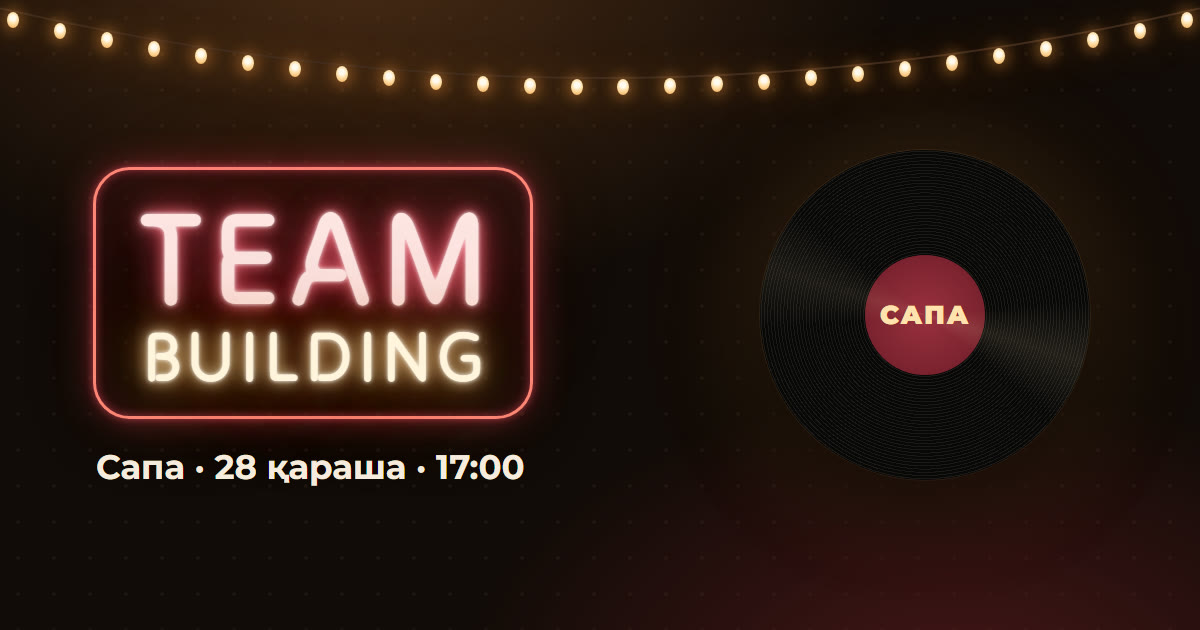
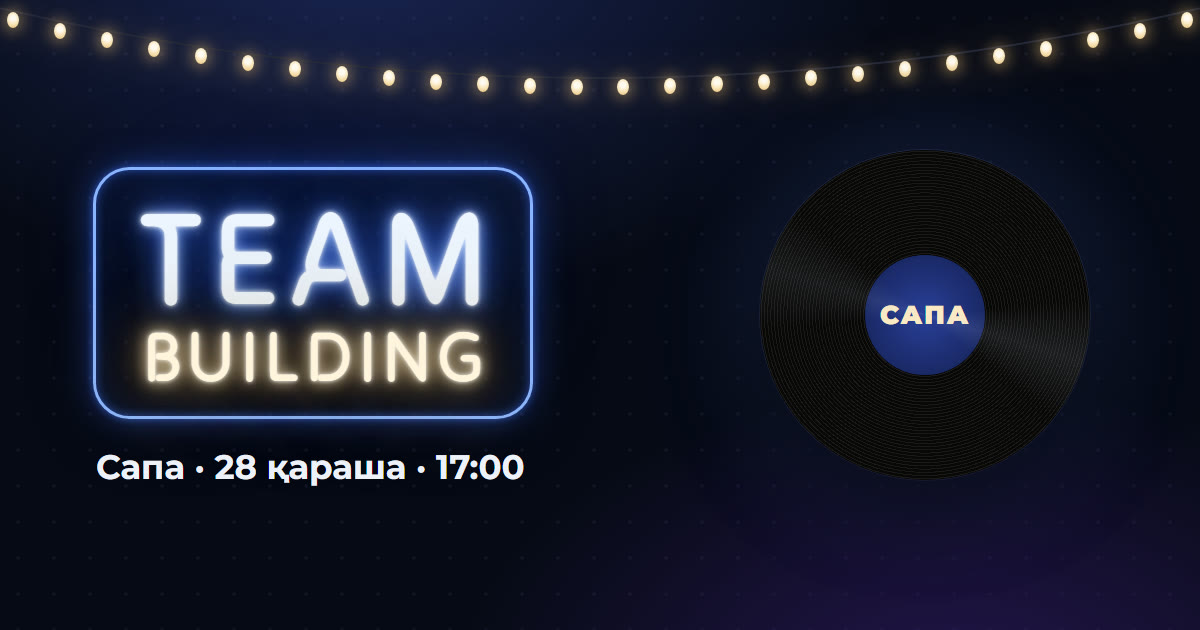
Make Midnight the main palette
- index.html opens in midnight without ?palette (also set on <html> as a no-JS fallback)
- Telegram preview and icons redrawn in navy and brass
- Comparison page marks Midnight as the main one; docs updated

diff --git a/tools/og.html b/tools/og.html
@@ -1,5 +1,5 @@
 <!doctype html>
-<!-- Telegram превью суреті (1200×630), палитра «Виски». Қайта жасау: README.md қараңыз. -->
+<!-- Telegram превью суреті (1200×630), палитра «Полночь». Қайта жасау: README.md қараңыз. -->
 <html lang="kk">
 <head>
 <meta charset="utf-8">
@@ -10,48 +10,48 @@
   body {
     position: relative; font-family: 'Montserrat', sans-serif; color: #f5ebde;
     background:
-      radial-gradient(ellipse 70% 90% at 30% -10%, rgba(222,128,56,.28), transparent 65%),
-      radial-gradient(ellipse 60% 70% at 80% 110%, rgba(120,32,40,.5), transparent 70%),
-      radial-gradient(circle, rgba(255,210,160,.05) 1.5px, transparent 2px) 0 0 / 36px 36px,
-      #120b08;
+      radial-gradient(ellipse 70% 90% at 30% -10%, rgba(70,100,230,.30), transparent 65%),
+      radial-gradient(ellipse 60% 70% at 80% 110%, rgba(60,30,120,.55), transparent 70%),
+      radial-gradient(circle, rgba(170,190,255,.06) 1.5px, transparent 2px) 0 0 / 36px 36px,
+      #070a16;
   }
   svg.wire { position: absolute; left: 0; top: 0; }
   .bulb {
     position: absolute; width: 12px; height: 16px; border-radius: 50%;
-    background: radial-gradient(circle at 50% 38%, #fffaf0 0 22%, #ffe2ae 45%, #f2ab55 100%);
-    box-shadow: 0 0 14px 4px rgba(240,150,60,.42), 0 0 40px 10px rgba(240,150,60,.14);
+    background: radial-gradient(circle at 50% 38%, #fffaf0 0 22%, #fbe9c4 45%, #e8c27a 100%);
+    box-shadow: 0 0 14px 4px rgba(240,192,112,.42), 0 0 40px 10px rgba(240,192,112,.14);
   }
   .left { position: absolute; left: 96px; top: 170px; display: flex; flex-direction: column; align-items: flex-start; gap: 30px; }
   .neon {
     padding: 26px 34px 20px; border-radius: 34px;
     display: flex; flex-direction: column; align-items: center;
-    background: rgba(18,8,6,.35);
-    box-shadow: 0 0 0 3px #ff8a7a, 0 0 10px 1px #e0485c, 0 0 36px rgba(214,69,90,.55), inset 0 0 10px rgba(224,72,92,.6), inset 0 0 40px rgba(214,69,90,.2);
+    background: rgba(8,11,24,.35);
+    box-shadow: 0 0 0 3px #8fb8ff, 0 0 10px 1px #3d6cf0, 0 0 36px rgba(60,110,240,.55), inset 0 0 10px rgba(60,110,240,.6), inset 0 0 40px rgba(60,110,240,.2);
   }
-  .a { font: 400 132px/0.92 'Tilt Neon', sans-serif; letter-spacing: .06em; padding-left: .06em; color: #ffe6e4;
-       text-shadow: 0 0 4px #fff, 0 0 14px #ff7a8a, 0 0 30px #d6455a, 0 0 64px rgba(214,52,72,.6), 0 0 120px rgba(214,52,72,.5); }
+  .a { font: 400 132px/0.92 'Tilt Neon', sans-serif; letter-spacing: .06em; padding-left: .06em; color: #eef5ff;
+       text-shadow: 0 0 4px #fff, 0 0 14px #9cc0ff, 0 0 30px #3d6cf0, 0 0 64px rgba(50,100,235,.6), 0 0 120px rgba(50,100,235,.5); }
   .b { font: 400 71px/1.1 'Tilt Neon', sans-serif; letter-spacing: .08em; padding-left: .08em; color: #fff4dc;
-       text-shadow: 0 0 4px #fff, 0 0 14px #ffe2ae, 0 0 30px #f2ab55, 0 0 64px #b0632a, 0 0 120px rgba(176,99,42,.7); }
-  .meta { font: 700 34px 'Montserrat', sans-serif; color: #f5ebde; }
+       text-shadow: 0 0 4px #fff, 0 0 14px #fbe9c4, 0 0 30px #e8c27a, 0 0 64px #a47b3c, 0 0 120px rgba(164,123,60,.7); }
+  .meta { font: 700 34px 'Montserrat', sans-serif; color: #eef1fa; }
   .record {
     position: absolute; right: 110px; top: 150px; width: 330px; height: 330px; border-radius: 50%;
     background: repeating-radial-gradient(circle, #1c1a19 0 1px, #090808 1px 3.2px);
-    box-shadow: 0 30px 80px rgba(0,0,0,.6), 0 0 0 1px rgba(255,205,150,.12), 0 0 120px rgba(240,150,60,.24);
+    box-shadow: 0 30px 80px rgba(0,0,0,.6), 0 0 0 1px rgba(170,190,255,.14), 0 0 120px rgba(90,130,255,.26);
   }
   .label {
     position: absolute; left: 105px; top: 105px; width: 120px; height: 120px; border-radius: 50%;
-    background: radial-gradient(circle, #9a3040, #6e1c28);
+    background: radial-gradient(circle, #2a3f99, #141f52);
     display: flex; align-items: center; justify-content: center;
-    font: 900 26px 'Montserrat', sans-serif; letter-spacing: .06em; color: #ffe2ae;
+    font: 900 26px 'Montserrat', sans-serif; letter-spacing: .06em; color: #fbe9c4;
   }
   .sheen { position: absolute; inset: 0; border-radius: 50%;
-    background: conic-gradient(from 20deg, transparent 0 18%, rgba(255,220,170,.10) 24%, transparent 30% 68%, rgba(255,220,170,.08) 74%, transparent 80%); }
+    background: conic-gradient(from 20deg, transparent 0 18%, rgba(200,215,255,.10) 24%, transparent 30% 68%, rgba(200,215,255,.08) 74%, transparent 80%); }
   .arm { position: absolute; right: 92px; top: 132px; width: 5px; height: 186px; border-radius: 3px;
     background: linear-gradient(#ffe2ae, #b0632a); transform: rotate(24deg); transform-origin: 50% 0; }
 </style>
 </head>
 <body>
-  <svg class="wire" width="1200" height="160"><path d="M -10 6 Q 600 150 1210 6" stroke="#3a281e" stroke-width="2" fill="none"/></svg>
+  <svg class="wire" width="1200" height="160"><path d="M -10 6 Q 600 150 1210 6" stroke="#1c2238" stroke-width="2" fill="none"/></svg>
   <div id="bulbs"></div>
   <div class="left">
     <div class="neon"><div class="a">TEAM</div><div class="b">BUILDING</div></div>

diff --git a/index.html b/index.html
@@ -1,18 +1,18 @@
 <!doctype html>
-<html lang="kk">
+<html lang="kk" data-palette="midnight">
 <head>
   <meta charset="utf-8">
   <meta name="viewport" content="width=device-width, initial-scale=1, viewport-fit=cover, interactive-widget=resizes-content">
   <title>Сапа · Тимбилдинг 28.11</title>
   <meta name="description" content="Сапа командасының тимбилдингіне шақыру. Кодты тап та, шақыруды аш!">
-  <meta name="theme-color" content="#120b08">
+  <meta name="theme-color" content="#070a16">
 
   <meta property="og:type" content="website">
   <meta property="og:site_name" content="Сапа">
   <meta property="og:title" content="Сапа · Тимбилдинг 28.11">
   <meta property="og:description" content="Кодты тап та, шақыруды аш 🔐">
   <meta property="og:url" content="https://dan1eloff.github.io/sapa-teambuilding/">
-  <meta property="og:image" content="https://dan1eloff.github.io/sapa-teambuilding/assets/og.jpg?v=2">
+  <meta property="og:image" content="https://dan1eloff.github.io/sapa-teambuilding/assets/og.jpg?v=3">
   <meta property="og:image:width" content="1200">
   <meta property="og:image:height" content="630">
   <meta name="twitter:card" content="summary_large_image">
@@ -24,11 +24,11 @@
   <link rel="preconnect" href="https://fonts.gstatic.com" crossorigin>
   <link href="https://fonts.googleapis.com/css2?family=Caveat:wght@500;700&family=Inter:wght@400;500;600;700&family=Montserrat:wght@200;300;400;500;600;700;800;900&family=Tilt+Neon&display=swap" rel="stylesheet">
   <script>
-    // Палитра из ссылки: ?palette=whisky|emerald|midnight|wine|noir (по умолчанию — whisky)
+    // Палитра из ссылки: ?palette=whisky|emerald|midnight|wine|noir (по умолчанию — midnight)
     (function () {
       var all = ['whisky', 'emerald', 'midnight', 'wine', 'noir'];
       var p = new URLSearchParams(location.search).get('palette');
-      document.documentElement.setAttribute('data-palette', all.indexOf(p) > -1 ? p : 'whisky');
+      document.documentElement.setAttribute('data-palette', all.indexOf(p) > -1 ? p : 'midnight');
     })();
   </script>
   <link rel="stylesheet" href="css/palettes.css">

diff --git a/tools/icon.html b/tools/icon.html
@@ -1,14 +1,14 @@
 <!doctype html>
-<!-- apple-touch-icon (180×180): янтарная сфера -->
+<!-- apple-touch-icon (180×180): сапфировая сфера (палитра «Полночь») -->
 <html><head><meta charset="utf-8">
 <style>
   * { margin: 0; }
   html, body { width: 180px; height: 180px; overflow: hidden; }
-  body { display: grid; place-items: center; background: radial-gradient(circle at 50% 45%, rgba(222,128,56,.35), transparent 70%), #120b08; }
+  body { display: grid; place-items: center; background: radial-gradient(circle at 50% 45%, rgba(70,100,230,.38), transparent 70%), #070a16; }
   .s {
     width: 116px; height: 116px; border-radius: 50%;
-    background: radial-gradient(circle at 34% 28%, #fff2d6 0 3%, #ffd086 9%, #f0a046 30%, #b55e1e 58%, #58210b 86%, #290d05 100%);
-    box-shadow: inset -12px -16px 32px rgba(50,12,4,.75), inset 0 -6px 14px rgba(255,190,110,.28), inset 8px 10px 18px rgba(255,255,255,.16), 0 12px 36px rgba(240,150,60,.35);
+    background: radial-gradient(circle at 34% 28%, #f2f6ff 0 3%, #b3c8ff 9%, #6a8ef2 30%, #2f4fbf 58%, #131f5e 86%, #070b26 100%);
+    box-shadow: inset -12px -16px 32px rgba(4,8,30,.75), inset 0 -6px 14px rgba(150,190,255,.28), inset 8px 10px 18px rgba(255,255,255,.16), 0 12px 36px rgba(90,130,255,.4);
   }
 </style></head>
 <body><div class="s"></div></body></html>

diff --git a/palettes.html b/palettes.html
@@ -71,9 +71,9 @@
 
 <script>
   var PALETTES = [
-    { id: 'whisky', name: 'Виски', desc: 'Янтарь, коньячный фон, бордо. Текущая.', sw: ['#120b08', '#f2ab55', '#ffe2ae', '#8c2a38', '#ff8a7a'] },
+    { id: 'whisky', name: 'Виски', desc: 'Янтарь, коньячный фон, бордо.', sw: ['#120b08', '#f2ab55', '#ffe2ae', '#8c2a38', '#ff8a7a'] },
     { id: 'emerald', name: 'Изумруд', desc: 'Фирменный зелёный Сапа и золото.', sw: ['#06110d', '#46cf9f', '#f0c06a', '#1f7a5e', '#7ff0c8'] },
-    { id: 'midnight', name: 'Полночь', desc: 'Тёмно-синий и латунь, как джазовые пластинки.', sw: ['#070a16', '#6a8ef2', '#e8c27a', '#1f2f75', '#8fb8ff'] },
+    { id: 'midnight', name: 'Полночь ★', desc: 'Основная. Тёмно-синий и латунь, как джазовые пластинки.', sw: ['#070a16', '#6a8ef2', '#e8c27a', '#1f2f75', '#8fb8ff'] },
     { id: 'wine', name: 'Бордо', desc: 'Винный и розовое золото.', sw: ['#13060a', '#c93a5b', '#f2b28c', '#5e1226', '#ff9ac4'] },
     { id: 'noir', name: 'Нуар', desc: 'Чёрный, шампань и жидкое серебро.', sw: ['#0b0b0c', '#b9bcc4', '#e6d0a2', '#18181b', '#fff1d6'] }
   ];

diff --git a/css/palettes.css b/css/palettes.css
@@ -1,11 +1,12 @@
 /*
  * Палитры. Включаются атрибутом <html data-palette="…"> (ссылка ?palette=whisky|emerald|midnight|wine|noir).
+ * Основная — midnight (задана в index.html).
  * Все цвета сайта, сферы (шейдер читает --sph-*), гирлянды и конфетти берутся отсюда.
  * Переменные с суффиксом -rgb — это «r,g,b» для rgba(var(--x-rgb), alpha).
  */
 
 /* ---------- Виски: янтарь, коньячный фон, бордо ---------- */
-:root, [data-palette="whisky"] {
+[data-palette="whisky"] {
   --bg: #120b08; --bg-2: #100a07;
   --ink: #f5ebde; --muted: #ae9886; --faint: #8f7867; --label: #eaa75e;
   --gold: #f2ab55; --gold-hi: #ffe2ae; --gold-deep: #b0632a; --gold-mid: #c27432; --accent-rgb: 242,171,85;

diff --git a/DESIGN.md b/DESIGN.md
@@ -113,21 +113,21 @@
 ## 3. Палитры
 
 Все цвета вынесены в `css/palettes.css`: сайт, сфера (шейдер читает `--sph-*`), гирлянда, конфетти, сургуч.
-Палитра включается ссылкой `?palette=…`, без параметра — «Виски». Сравнение: `palettes.html`
+Палитра включается ссылкой `?palette=…`, без параметра — **«Полночь» (основная)**. Сравнение: `palettes.html`
 (скриншоты в `docs/palettes/`).
 
 | id | Название | Идея |
 |---|---|---|
 | `whisky` | Виски | янтарь, коньячный фон, бордо, янтарная сфера |
 | `emerald` | Изумруд | фирменный зелёный Сапа и золото, изумрудная сфера |
-| `midnight` | Полночь | тёмно-синий и латунь, синий неон, сапфировая сфера |
+| `midnight` | **Полночь (основная)** | тёмно-синий и латунь, синий неон, сапфировая сфера |
 | `wine` | Бордо | винный и розовое золото, розовый неон, рубиновая сфера |
 | `noir` | Нуар | чёрный и шампань, тёплый белый неон, сфера из жидкого серебра |
 
 Чтобы сделать новую палитру, скопируйте блок любой палитры в `css/palettes.css`, задайте свой `data-palette`
 и добавьте id в список в `index.html` (скрипт в `<head>`).
 
-## 3.1. Дизайн-токены «Виски» (по умолчанию)
+## 3.1. Дизайн-токены «Виски» (исходная палитра макета; значения «Полночи» — в `css/palettes.css`)
 
 ### Цвета
 | Токен | Значение | Где |

diff --git a/README.md b/README.md
@@ -11,7 +11,7 @@
 
 ## Палитры
 
-Пять палитр в `css/palettes.css`: `whisky` (по умолчанию), `emerald`, `midnight`, `wine`, `noir`.
+Пять палитр в `css/palettes.css`: `midnight` (основная), `whisky`, `emerald`, `wine`, `noir`.
 Включаются ссылкой `index.html?palette=emerald`. Сравнение всех палитр — `palettes.html`
 (скриншоты в `docs/palettes/`). Чтобы сделать палитру основной, поменяйте значение по умолчанию
 в скрипте в `<head>` файла `index.html`.
